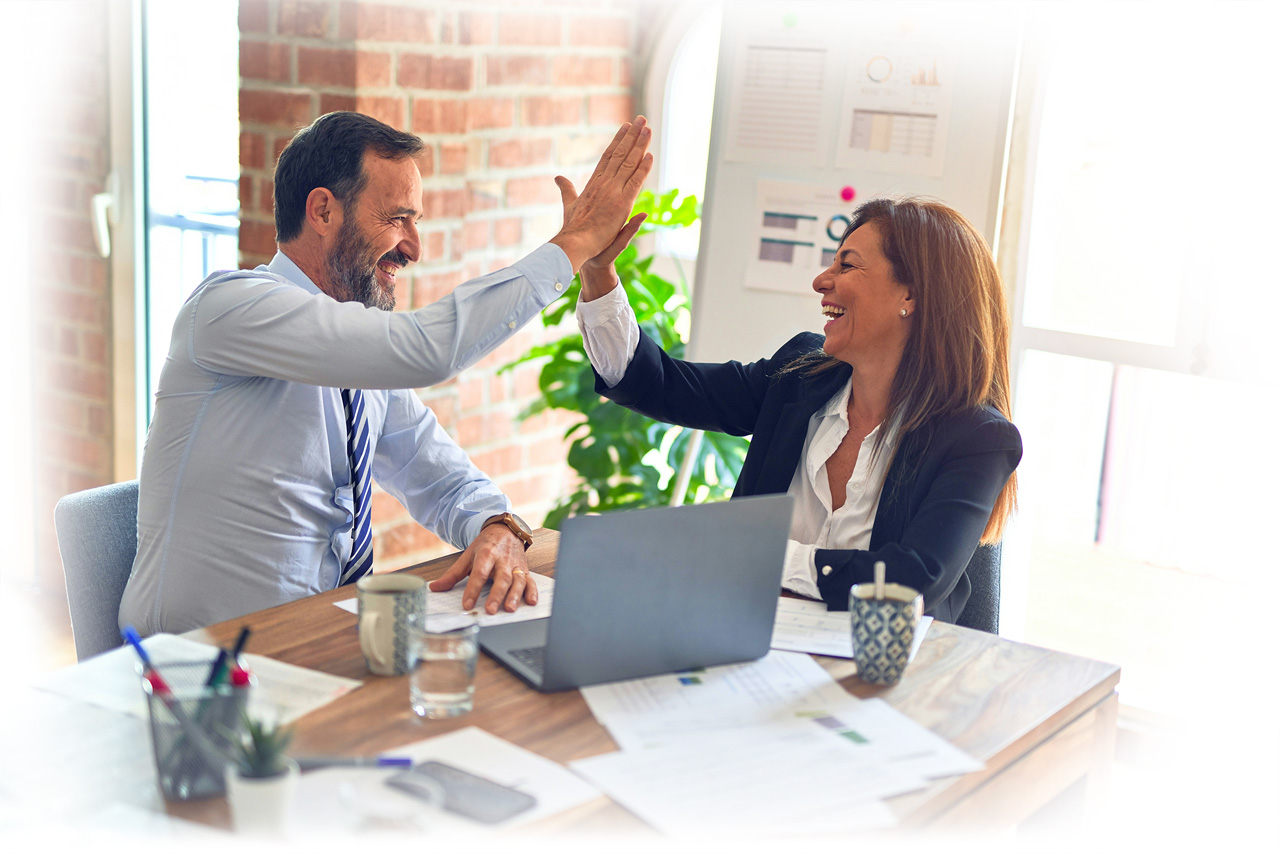
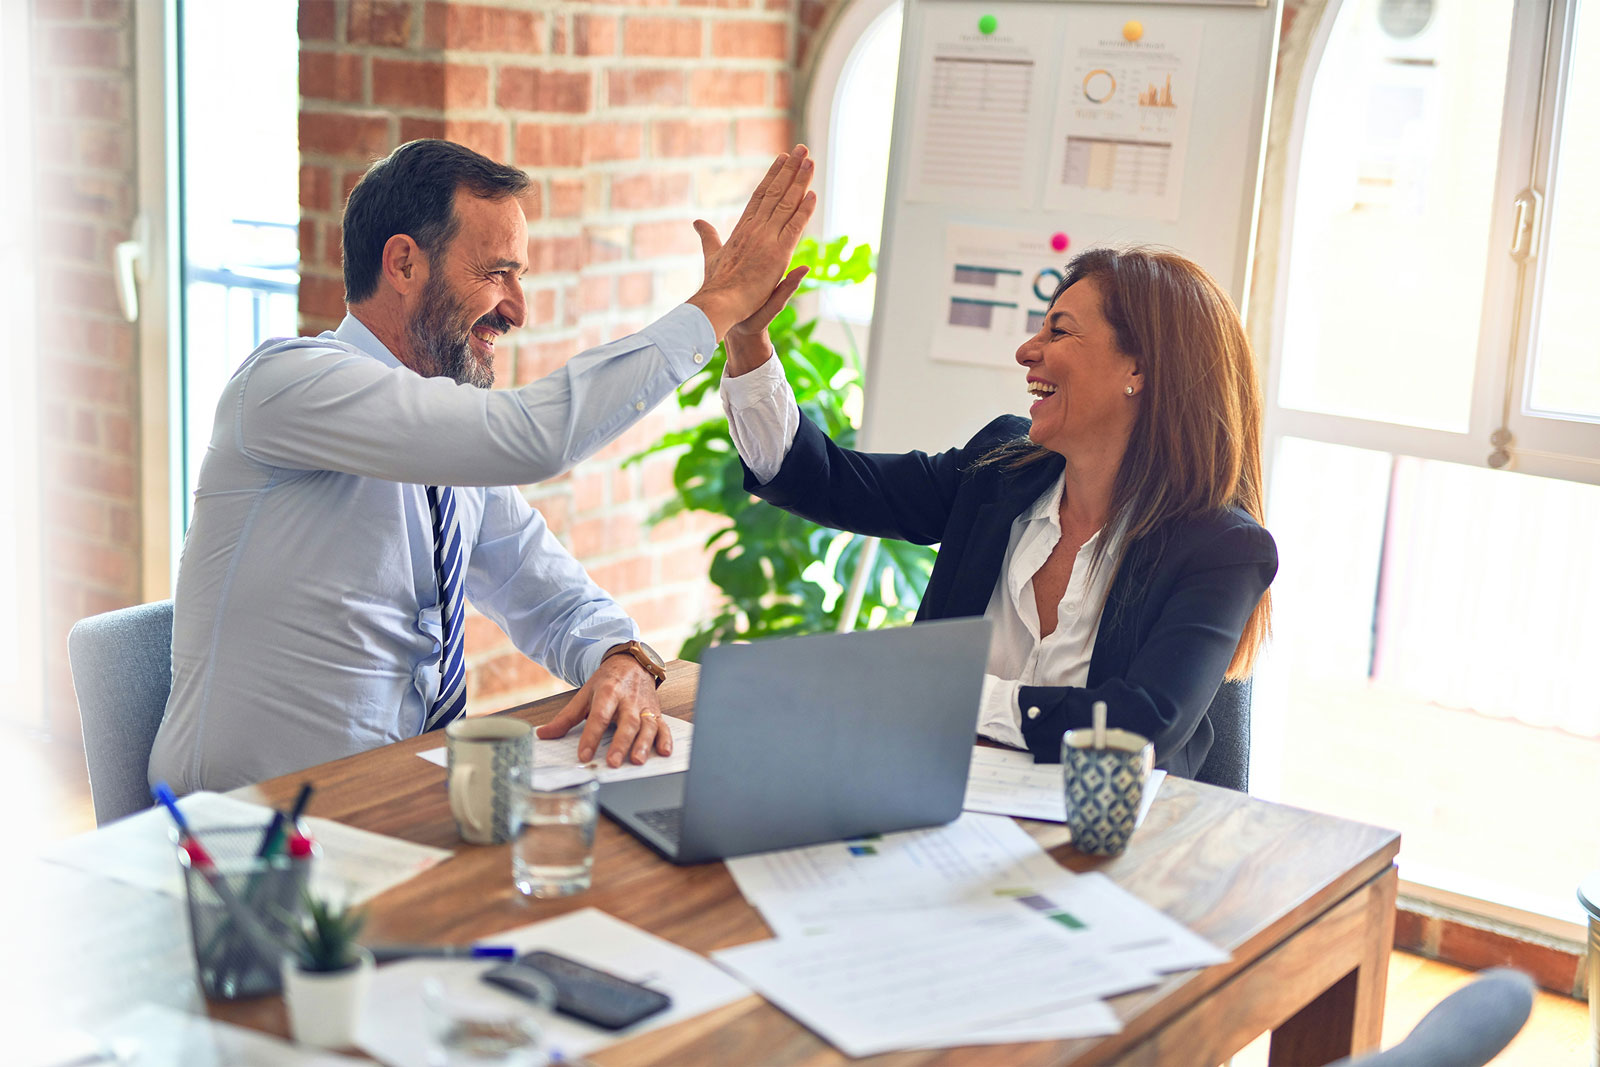
style adjustments at the cta picture

diff --git a/src/style.css b/src/style.css
@@ -205,7 +205,7 @@ input[type="submit"] {
 
 .hero .content p {
   max-width: 480px;
-  color: var(--neutral-50);
+  margin-bottom: 2rem;
 }
 
 .hero .image {
@@ -374,6 +374,7 @@ input[type="submit"] {
 
 .cta {
   width: 100%;
+  height: fit-content;
   padding: 0;
   background: #1c3664;
   color: var(--primary-color);
@@ -385,6 +386,12 @@ input[type="submit"] {
 }
 .cta-image {
   width: 50%;
+}
+.cta-image img {
+  width: 100%;
+  height: 100%;
+  object-fit: fill;
+  vertical-align: bottom;
 }
 .cta-content {
   width: 50%;
